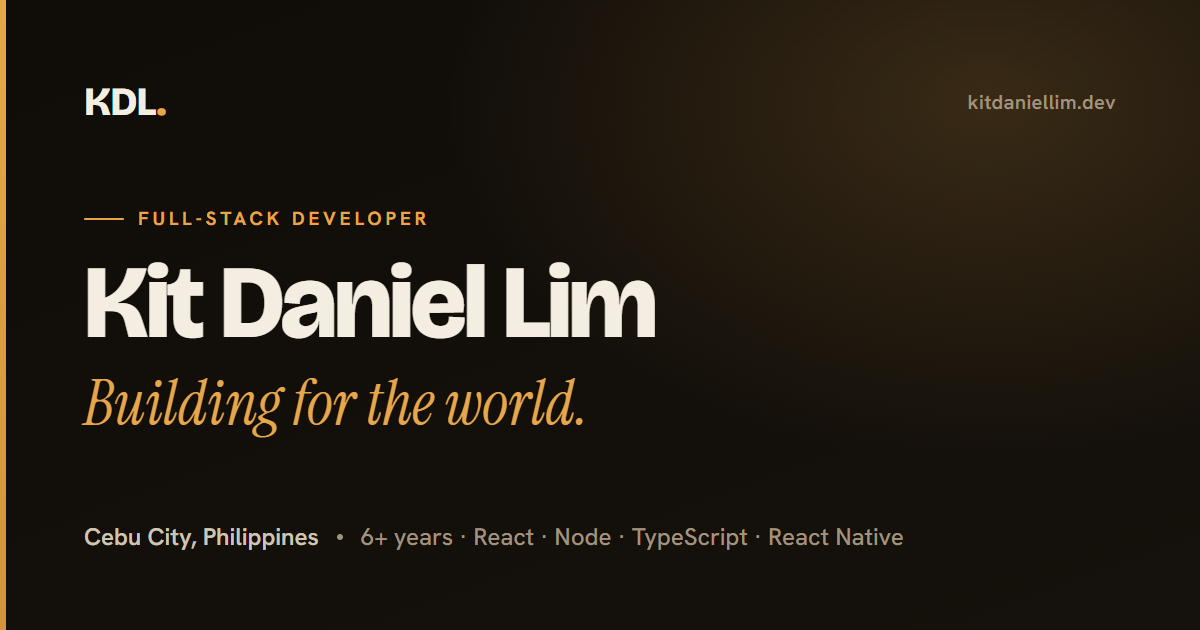
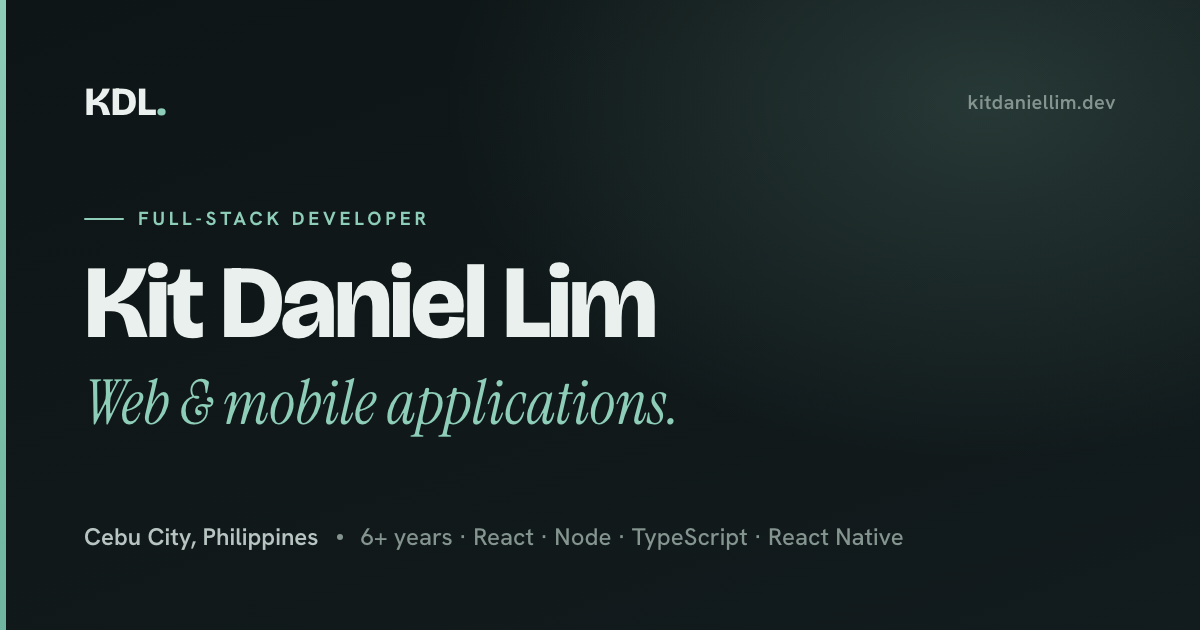
Regenerate share card in the teal theme

diff --git a/scripts/og-card.html b/scripts/og-card.html
@@ -26,9 +26,9 @@
       body {
         position: relative;
         overflow: hidden;
-        background: radial-gradient(900px 600px at 82% 16%, rgba(232, 166, 74, 0.18), transparent 60%),
-          linear-gradient(160deg, #100d09, #15110b);
-        color: #cfc5b4;
+        background: radial-gradient(900px 600px at 82% 16%, rgba(142, 205, 184, 0.18), transparent 60%),
+          linear-gradient(160deg, #0e1516, #121b1d);
+        color: #b7c4c1;
         font-family: "Hanken Grotesk", system-ui, sans-serif;
         padding: 78px 84px;
         display: flex;
@@ -43,7 +43,7 @@
         top: 0;
         bottom: 0;
         width: 6px;
-        background: linear-gradient(180deg, #e8a64a, #d4923a);
+        background: linear-gradient(180deg, #8ecdb8, #6fb59f);
       }
       .top {
         display: flex;
@@ -55,16 +55,16 @@
         font-weight: 800;
         font-size: 40px;
         letter-spacing: -0.02em;
-        color: #f4ede1;
+        color: #eaf0ee;
       }
       .brand span {
-        color: #e8a64a;
+        color: #8ecdb8;
       }
       .site {
         font-size: 20px;
         font-weight: 600;
         letter-spacing: 0.02em;
-        color: #a0937f;
+        color: #84948f;
       }
       .eyebrow {
         display: inline-flex;
@@ -74,14 +74,14 @@
         font-weight: 700;
         letter-spacing: 0.2em;
         text-transform: uppercase;
-        color: #e8a64a;
+        color: #8ecdb8;
         margin-bottom: 24px;
       }
       .eyebrow i {
         width: 40px;
         height: 2px;
         border-radius: 2px;
-        background: #e8a64a;
+        background: #8ecdb8;
         display: inline-block;
       }
       h1 {
@@ -90,7 +90,7 @@
         font-size: 104px;
         line-height: 0.92;
         letter-spacing: -0.03em;
-        color: #f4ede1;
+        color: #eaf0ee;
       }
       .serif {
         font-family: "Instrument Serif", serif;
@@ -98,7 +98,7 @@
         font-weight: 400;
         font-size: 62px;
         letter-spacing: 0;
-        color: #e8a64a;
+        color: #8ecdb8;
         margin-top: 12px;
       }
       .meta {
@@ -107,17 +107,17 @@
         gap: 18px;
         font-size: 24px;
         font-weight: 600;
-        color: #cfc5b4;
+        color: #b7c4c1;
       }
       .meta .dot {
         width: 6px;
         height: 6px;
         border-radius: 50%;
-        background: #a0937f;
+        background: #84948f;
         display: inline-block;
       }
       .meta .muted {
-        color: #a0937f;
+        color: #84948f;
         font-weight: 500;
       }
     </style>
@@ -130,7 +130,7 @@
     <div>
       <span class="eyebrow"><i></i>Full-Stack Developer</span>
       <h1>Kit Daniel Lim</h1>
-      <div class="serif">Building for the world.</div>
+      <div class="serif">Web &amp; mobile applications.</div>
     </div>
     <div class="meta">
       <span>Cebu City, Philippines</span>
